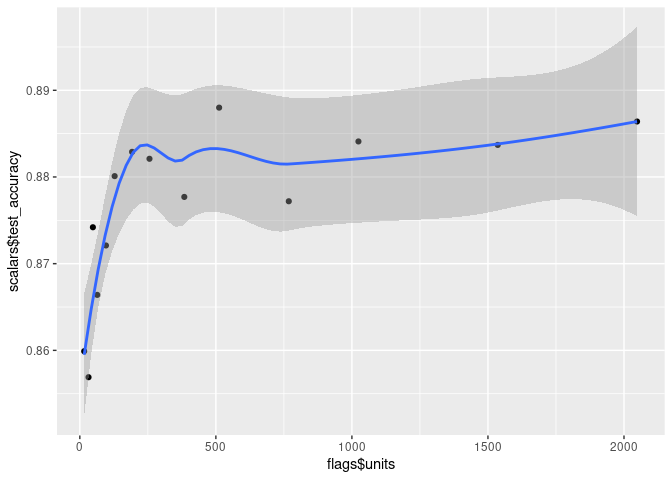
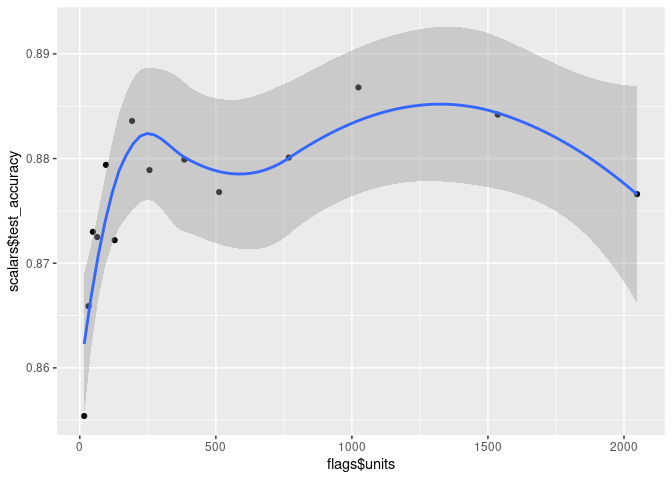
update README

diff --git a/README.md b/README.md
@@ -178,25 +178,25 @@ guild_run("train.R")
 ## +       epochs = epochs,
 ## +       verbose = 2)
 ## Epoch 1/10
-## 1500/1500 - 4s - loss: 0.5479 - accuracy: 0.8098 - val_loss: 0.4199 - val_accuracy: 0.8547 - 4s/epoch - 3ms/step
+## 1500/1500 - 3s - loss: 0.5362 - accuracy: 0.8140 - val_loss: 0.4463 - val_accuracy: 0.8376 - 3s/epoch - 2ms/step
 ## Epoch 2/10
-## 1500/1500 - 3s - loss: 0.4065 - accuracy: 0.8565 - val_loss: 0.3974 - val_accuracy: 0.8608 - 3s/epoch - 2ms/step
+## 1500/1500 - 2s - loss: 0.4032 - accuracy: 0.8553 - val_loss: 0.4412 - val_accuracy: 0.8403 - 2s/epoch - 2ms/step
 ## Epoch 3/10
-## 1500/1500 - 2s - loss: 0.3647 - accuracy: 0.8690 - val_loss: 0.3768 - val_accuracy: 0.8685 - 2s/epoch - 2ms/step
+## 1500/1500 - 2s - loss: 0.3691 - accuracy: 0.8666 - val_loss: 0.3635 - val_accuracy: 0.8686 - 2s/epoch - 1ms/step
 ## Epoch 4/10
-## 1500/1500 - 2s - loss: 0.3393 - accuracy: 0.8759 - val_loss: 0.3575 - val_accuracy: 0.8732 - 2s/epoch - 1ms/step
+## 1500/1500 - 2s - loss: 0.3427 - accuracy: 0.8748 - val_loss: 0.3571 - val_accuracy: 0.8713 - 2s/epoch - 1ms/step
 ## Epoch 5/10
-## 1500/1500 - 2s - loss: 0.3200 - accuracy: 0.8841 - val_loss: 0.3706 - val_accuracy: 0.8683 - 2s/epoch - 1ms/step
+## 1500/1500 - 2s - loss: 0.3230 - accuracy: 0.8816 - val_loss: 0.3595 - val_accuracy: 0.8692 - 2s/epoch - 1ms/step
 ## Epoch 6/10
-## 1500/1500 - 2s - loss: 0.3063 - accuracy: 0.8887 - val_loss: 0.3417 - val_accuracy: 0.8775 - 2s/epoch - 1ms/step
+## 1500/1500 - 2s - loss: 0.3100 - accuracy: 0.8868 - val_loss: 0.3435 - val_accuracy: 0.8733 - 2s/epoch - 1ms/step
 ## Epoch 7/10
-## 1500/1500 - 2s - loss: 0.2941 - accuracy: 0.8924 - val_loss: 0.3450 - val_accuracy: 0.8774 - 2s/epoch - 1ms/step
+## 1500/1500 - 2s - loss: 0.2942 - accuracy: 0.8917 - val_loss: 0.3324 - val_accuracy: 0.8809 - 2s/epoch - 1ms/step
 ## Epoch 8/10
-## 1500/1500 - 2s - loss: 0.2822 - accuracy: 0.8956 - val_loss: 0.3379 - val_accuracy: 0.8810 - 2s/epoch - 1ms/step
+## 1500/1500 - 2s - loss: 0.2848 - accuracy: 0.8962 - val_loss: 0.3341 - val_accuracy: 0.8796 - 2s/epoch - 1ms/step
 ## Epoch 9/10
-## 1500/1500 - 2s - loss: 0.2730 - accuracy: 0.8987 - val_loss: 0.3373 - val_accuracy: 0.8823 - 2s/epoch - 1ms/step
+## 1500/1500 - 2s - loss: 0.2727 - accuracy: 0.9001 - val_loss: 0.3555 - val_accuracy: 0.8739 - 2s/epoch - 1ms/step
 ## Epoch 10/10
-## 1500/1500 - 2s - loss: 0.2658 - accuracy: 0.9022 - val_loss: 0.3414 - val_accuracy: 0.8809 - 2s/epoch - 1ms/step
+## 1500/1500 - 2s - loss: 0.2645 - accuracy: 0.9038 - val_loss: 0.3335 - val_accuracy: 0.8832 - 2s/epoch - 1ms/step
 ## > plot(history)
 ## > # Evaluate model ----
 ## >
@@ -205,9 +205,9 @@ guild_run("train.R")
 ## +            verbose = 0) %>%
 ## +   as.list()
 ## > cat('test_loss:', score$loss, "\n")
-## test_loss: 0.36843222379684448
+## test_loss: 0.36542254686355591
 ## > cat('test_accuracy:', score$accuracy, "\n")
-## test_accuracy: 0.87099999189376831
+## test_accuracy: 0.87129998207092285
 ## > # save_model_tf(model, "model.keras")
 ## > # saveRDS(history, "history.rds")
 ## >
@@ -246,15 +246,15 @@ tibble::glimpse(run)
 ## $ flags       <tibble[,4]> <tbl_df[1 x 4]>
 ## $ scalars     <tibble[,2]> <tbl_df[1 x 2]>
 ## $ operation   <chr> "train.R"
-## $ started     <dttm> 2022-11-14 14:46:32
-## $ stopped     <dttm> 2022-11-14 14:47:02
+## $ started     <dttm> 2022-11-15 10:16:09
+## $ stopped     <dttm> 2022-11-15 10:16:38
 ## $ comments    <list> [<tbl_df[0 x 4]>]
 ## $ status      <chr> "completed"
 ## $ exit_status <int> 0
 ## $ deps        <list> []
 ## $ project_dir <chr> "/home/tomasz/guild/guildai-r"
-## $ dir         <chr> "/home/tomasz/guild/guildai-r/.guild/runs/8795f6a0b782446…
-## $ id          <chr> "8795f6a0b7824469845cce1f82c6de87"
+## $ dir         <chr> "/home/tomasz/guild/guildai-r/.guild/runs/e1b65f54723b45b…
+## $ id          <chr> "e1b65f54723b45b783ab0260b8373be6"
 ```
 
 `ls_runs()` returns a data frame with information about runs. In this
@@ -274,7 +274,7 @@ reproducability.
 
 ``` r
 fs::dir_tree(run$dir[1], all = TRUE)
-## /home/tomasz/guild/guildai-r/.guild/runs/8795f6a0b7824469845cce1f82c6de87
+## /home/tomasz/guild/guildai-r/.guild/runs/e1b65f54723b45b783ab0260b8373be6
 ## ├── .guild
 ## │   ├── attrs
 ## │   │   ├── cmd
@@ -297,7 +297,7 @@ fs::dir_tree(run$dir[1], all = TRUE)
 ## │   │   ├── user
 ## │   │   ├── user_flags
 ## │   │   └── vcs_commit
-## │   ├── events.out.tfevents.1668455222.horse.58860.0
+## │   ├── events.out.tfevents.1668525398.horse.110618.0
 ## │   ├── manifest
 ## │   ├── opref
 ## │   ├── output
@@ -468,7 +468,7 @@ YAML files are also supported as a flags destination:
 ### Retreiving Run Flags
 
 The flags and flag values associated with each runs are returned by
-`ls_runs()` as a nested dataframe under the `flags` name.
+`ls_runs()` as a packed dataframe under the `flags` name.
 
 ``` r
 runs <- ls_runs()
@@ -477,8 +477,8 @@ runs %>%
 ## # A tibble: 2 × 2
 ##   id                               flags$batch_size $epochs $learning_r…¹ $units
 ##   <chr>                                       <dbl>   <dbl>         <dbl>  <dbl>
-## 1 f2998abbb2da47ef925ecd903356eaee               32      20         0.003    128
-## 2 8795f6a0b7824469845cce1f82c6de87               32      10         0.001     64
+## 1 447570897ab04a1d81569b40b3ca59c4               32      20         0.003    128
+## 2 e1b65f54723b45b783ab0260b8373be6               32      10         0.001     64
 ## # … with abbreviated variable name ¹$learning_rate
 ```
 
@@ -494,11 +494,11 @@ runs %>%
 ## # A tibble: 2 × 2
 ##   id                               scalars$test_accuracy $test_loss
 ##   <chr>                                            <dbl>      <dbl>
-## 1 f2998abbb2da47ef925ecd903356eaee                 0.877      0.403
-## 2 8795f6a0b7824469845cce1f82c6de87                 0.871      0.368
+## 1 447570897ab04a1d81569b40b3ca59c4                 0.866      0.466
+## 2 e1b65f54723b45b783ab0260b8373be6                 0.871      0.365
 
 glimpse(runs$scalars[[1]])
-##  num [1:2] 0.877 0.871
+##  num [1:2] 0.866 0.871
 ```
 
 Here we see that guild has automatically identified `test_accuracy` and
@@ -521,12 +521,12 @@ scalars observed in runs can also be accessed from R directly:
 ``` r
 ls_scalars()
 ## # A tibble: 4 × 5
-##   run                              path   tag           value  step
-##   <chr>                            <chr>  <chr>         <dbl> <dbl>
-## 1 f2998abbb2da47ef925ecd903356eaee .guild test_loss     0.403     0
-## 2 f2998abbb2da47ef925ecd903356eaee .guild test_accuracy 0.877     0
-## 3 8795f6a0b7824469845cce1f82c6de87 .guild test_loss     0.368     0
-## 4 8795f6a0b7824469845cce1f82c6de87 .guild test_accuracy 0.871     0
+##   run                              path  tag           value  step
+##   <chr>                            <chr> <chr>         <dbl> <dbl>
+## 1 447570897ab04a1d81569b40b3ca59c4 <NA>  test_loss     0.466     0
+## 2 447570897ab04a1d81569b40b3ca59c4 <NA>  test_accuracy 0.866     0
+## 3 e1b65f54723b45b783ab0260b8373be6 <NA>  test_loss     0.365     0
+## 4 e1b65f54723b45b783ab0260b8373be6 <NA>  test_accuracy 0.871     0
 ```
 
 ## Managing runs
@@ -550,9 +550,9 @@ best <- ls_scalars() %>%
 
 best
 ## # A tibble: 1 × 5
-##   run                              path   tag           value  step
-##   <chr>                            <chr>  <chr>         <dbl> <dbl>
-## 1 f2998abbb2da47ef925ecd903356eaee .guild test_accuracy 0.877     0
+##   run                              path  tag           value  step
+##   <chr>                            <chr> <chr>         <dbl> <dbl>
+## 1 e1b65f54723b45b783ab0260b8373be6 <NA>  test_accuracy 0.871     0
 
 best %>%
   runs_tag("best") %>%
@@ -676,20 +676,20 @@ df
 ## # A tibble: 14 × 2
 ##    flags$batch_size $epochs $learning_rate $units scalars$test_accuracy $test_…¹
 ##               <dbl>   <dbl>          <dbl>  <dbl>                 <dbl>    <dbl>
-##  1               32      10          0.001   2048                 0.886    0.345
-##  2               32      10          0.001   1536                 0.884    0.340
-##  3               32      10          0.001   1024                 0.884    0.342
-##  4               32      10          0.001    768                 0.877    0.365
-##  5               32      10          0.001    512                 0.888    0.324
-##  6               32      10          0.001    384                 0.878    0.360
-##  7               32      10          0.001    256                 0.882    0.340
-##  8               32      10          0.001    192                 0.883    0.336
-##  9               32      10          0.001    128                 0.880    0.342
-## 10               32      10          0.001     96                 0.872    0.362
-## 11               32      10          0.001     64                 0.866    0.371
-## 12               32      10          0.001     48                 0.874    0.355
-## 13               32      10          0.001     32                 0.857    0.404
-## 14               32      10          0.001     16                 0.860    0.398
+##  1               32      10          0.001   2048                 0.877    0.370
+##  2               32      10          0.001   1536                 0.884    0.341
+##  3               32      10          0.001   1024                 0.887    0.340
+##  4               32      10          0.001    768                 0.880    0.356
+##  5               32      10          0.001    512                 0.877    0.350
+##  6               32      10          0.001    384                 0.880    0.360
+##  7               32      10          0.001    256                 0.879    0.357
+##  8               32      10          0.001    192                 0.884    0.338
+##  9               32      10          0.001    128                 0.872    0.359
+## 10               32      10          0.001     96                 0.879    0.346
+## 11               32      10          0.001     64                 0.873    0.362
+## 12               32      10          0.001     48                 0.873    0.368
+## 13               32      10          0.001     32                 0.866    0.389
+## 14               32      10          0.001     16                 0.855    0.413
 ## # … with abbreviated variable name ¹$test_loss
 ```
 
